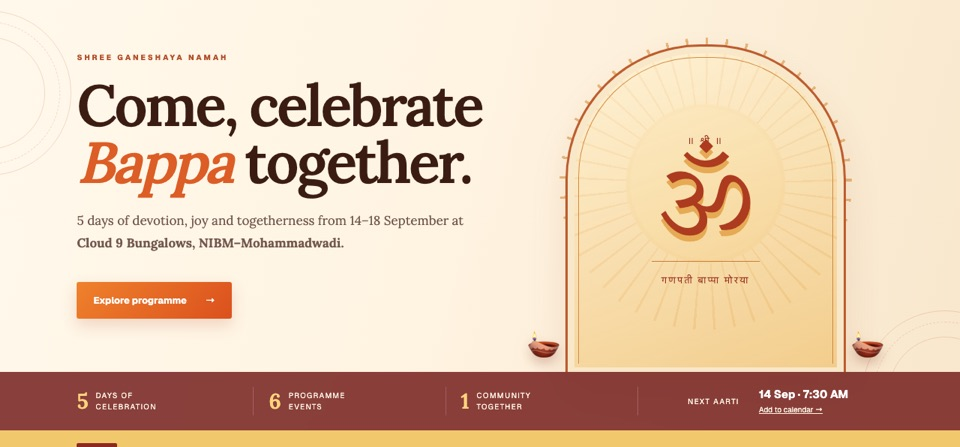
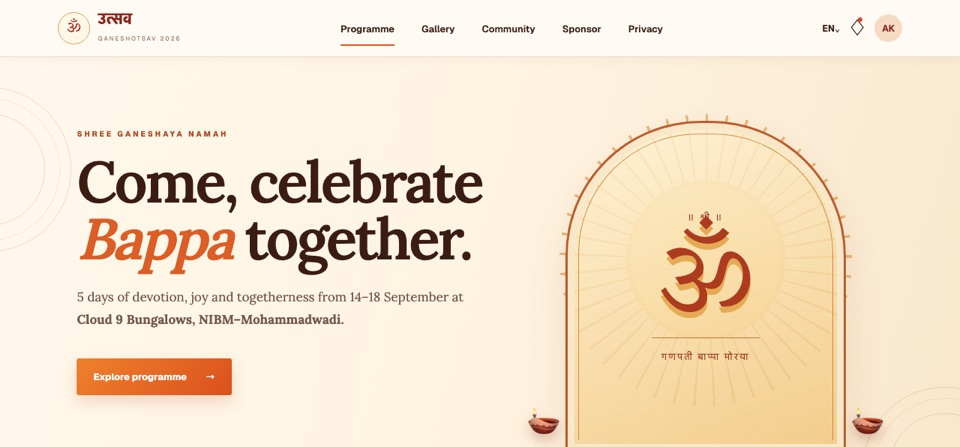
Show site screenshots on every work card
- Pippy card shows the pet parent app and the business page side by side
- Apna Aangan, Nayi Disha, Batch Reunion and Sonal's Art Studio get
  screenshots of their live sites
- Re-crop Peeds Park and Gulmohar Utsav from the top of the page
- Fix a stray backslash in the Apna Aangan description

diff --git a/index.html b/index.html
@@ -119,10 +119,6 @@
   .work { background: var(--card); border: 1px solid var(--line); border-radius: 20px; overflow: hidden; display: flex; flex-direction: column; }
   .work .banner { height: 150px; position: relative; display: flex; align-items: flex-end; padding: 22px 26px; color: #fff; }
   .work .banner .kind { font-size: 12px; font-weight: 700; letter-spacing: 0.12em; text-transform: uppercase; opacity: .9; }
-  .b-pippy { background: #d9692b; }
-  .b-aangan { background: #2f6b51; }
-  .b-disha { background: #2c3a66; }
-  .b-artist { background: #6e4570; }
   .work .banner .glyph { position: absolute; right: 24px; top: 20px; font-family: "Fraunces", serif; font-size: 72px; font-weight: 700; opacity: .18; line-height: 1; }
   .work .body { padding: 26px; display: flex; flex-direction: column; flex: 1; }
   .work h3 { font-size: 26px; margin-bottom: 8px; }
@@ -205,6 +201,10 @@
   .work.small .banner { height: auto; aspect-ratio: 16 / 9; padding: 16px 20px; }
   .work.small .banner .glyph { font-size: 56px; right: 18px; top: 14px; }
   .work .shot { position: relative; aspect-ratio: 16 / 9; overflow: hidden; background: #e9e2d6; border-bottom: 1px solid var(--line); }
+  .shot-pair { display: grid; grid-template-columns: 1fr 1fr; gap: 1px; background: var(--line); border-bottom: 1px solid var(--line); }
+  .shot-pair .shot { border-bottom: 0; }
+  .work:not(.small) .shot { aspect-ratio: 16 / 8.5; }
+  @media (max-width: 640px) { .shot-pair { grid-template-columns: 1fr; } }
   .work .shot img { width: 100%; height: 100%; object-fit: cover; object-position: top left; display: block; transition: transform .5s ease; }
   .work:hover .shot img { transform: scale(1.03); }
   .work .shot .kind { position: absolute; left: 14px; bottom: 12px; background: rgba(17, 14, 22, 0.78); color: #fff; padding: 4px 11px; border-radius: 999px; font-size: 11px; font-weight: 700; letter-spacing: 0.1em; text-transform: uppercase; }
@@ -213,7 +213,6 @@
   .work.small p { font-size: 14.5px; }
   .work .body p b { color: var(--ink); }
   .links { margin-top: auto; display: flex; gap: 18px; flex-wrap: wrap; }
-  .b-reunion { background: #4a4e5a; }
 
   /* Contact people */
   .people { display: grid; grid-template-columns: repeat(2, minmax(0, 300px)); gap: 20px; justify-content: center; }
@@ -501,7 +500,7 @@
     <div class="group-title reveal">Products &amp; platforms</div>
     <div class="work-grid">
       <article class="work wide reveal">
-        <div class="banner b-pippy"><span class="glyph">P</span><span class="kind">Our product</span></div>
+        <div class="shot-pair"><div class="shot"><img src="img/pippy-app.jpg" alt="Pippy pet-care app home page" width="960" height="438" loading="lazy"><span class="kind">Pet parent app</span></div><div class="shot"><img src="img/pippy-business.jpg" alt="Pippy for business home page for boarders and groomers" width="960" height="450" loading="lazy"><span class="kind">For businesses</span></div></div>
         <div class="body">
           <h3>Pippy Pets</h3>
           <p>A pet-care app that takes the paperwork out of health records. Pet parents can say their pet's history out loud, or snap a prescription and let AI read it into the record, down to medicine doses and weight readings. A searchable directory helps them find vets and groomers in Pune.</p>
@@ -514,16 +513,16 @@
         </div>
       </article>
       <article class="work reveal">
-        <div class="banner b-aangan"><span class="glyph">A</span><span class="kind">Our product</span></div>
+        <div class="shot"><img src="img/apna-aangan.jpg" alt="Apna Aangan neighbourhood directory with search and categories" width="960" height="525" loading="lazy"><span class="kind">Our product</span></div>
         <div class="body">
           <h3>Apna Aangan</h3>
-          <p>A neighbourhood marketplace where local providers list their services and residents find them. Residents and providers each get their own view, and providers\' phone numbers are never shown to strangers.</p>
+          <p>A neighbourhood marketplace where local providers list their services and residents find them. Residents and providers each get their own view, and providers' phone numbers are never shown to strangers.</p>
           <div class="chips"><span class="chip">Search local services</span><span class="chip">Views for residents &amp; providers</span><span class="chip">Share by QR &amp; WhatsApp</span><span class="chip">Phone numbers kept private</span></div>
           <div class="links"><a class="link" href="https://apnaaangan.com" target="_blank" rel="noopener">apnaaangan.com →</a></div>
         </div>
       </article>
       <article class="work reveal">
-        <div class="banner b-disha"><span class="glyph">N</span><span class="kind">Hiring platform</span></div>
+        <div class="shot"><img src="img/nayi-disha.jpg" alt="Nayi Disha job seeker page with a WhatsApp-style chat" width="960" height="540" loading="lazy"><span class="kind">Hiring platform</span></div>
         <div class="body">
           <h3>Nayi Disha</h3>
           <p>A WhatsApp-first hiring platform connecting frontline workers in retail and banking with employers.</p>
@@ -537,7 +536,7 @@
     <div class="group-title reveal" style="margin-top:48px">Websites for clients &amp; communities</div>
     <div class="work-grid four">
       <article class="work small reveal">
-        <div class="shot"><img src="img/peeds-park.jpg" alt="Home page of the Peeds Park club house website" width="960" height="447" loading="lazy"><span class="kind">Club house</span></div>
+        <div class="shot"><img src="img/peeds-park.jpg" alt="Home page of the Peeds Park club house website" width="960" height="450" loading="lazy"><span class="kind">Club house</span></div>
         <div class="body">
           <h3>Peeds Park</h3>
           <p>Website for a family club house in Kerala with a pool and a party lawn. Guests can look at each facility and send an enquiry.</p>
@@ -545,7 +544,7 @@
         </div>
       </article>
       <article class="work small reveal">
-        <div class="shot"><img src="img/gulmohar-utsav.jpg" alt="Home page of the Gulmohar Utsav Ganeshotsav website" width="960" height="450" loading="lazy"><span class="kind">Festival</span></div>
+        <div class="shot"><img src="img/gulmohar-utsav.jpg" alt="Home page of the Gulmohar Utsav Ganeshotsav website" width="960" height="447" loading="lazy"><span class="kind">Festival</span></div>
         <div class="body">
           <h3>Gulmohar Utsav</h3>
           <p>A Ganeshotsav site for a housing society. Residents see the five-day programme and sign up to volunteer. The committee runs it from a Google Sheet, and any society can reuse it.</p>
@@ -555,7 +554,7 @@
         </div>
       </article>
       <article class="work small reveal">
-        <div class="banner b-reunion"><span class="glyph">R</span><span class="kind">Reunion</span></div>
+        <div class="shot"><img src="img/batch-reunion.jpg" alt="Batch Reunion invitation home page" width="960" height="480" loading="lazy"><span class="kind">Reunion</span></div>
         <div class="body">
           <h3>Batch Reunion</h3>
           <p>A reunion site with two sides. Alumni register and see the programme, and their contact details stay private. Organisers manage registrations and event details from an admin area. The invitation is a five-chapter scrolling story.</p>
@@ -565,7 +564,7 @@
         </div>
       </article>
       <article class="work small reveal">
-        <div class="banner b-artist"><span class="glyph">S</span><span class="kind">Artist</span></div>
+        <div class="shot"><img src="img/sonal-art-studio.jpg" alt="Sonal's Art Studio home page" width="960" height="480" loading="lazy"><span class="kind">Artist</span></div>
         <div class="body">
           <h3>Sonal's Art Studio</h3>
           <p>A portfolio site for a charcoal artist known for animal portraits, with a way for buyers to enquire about commissions.</p>
